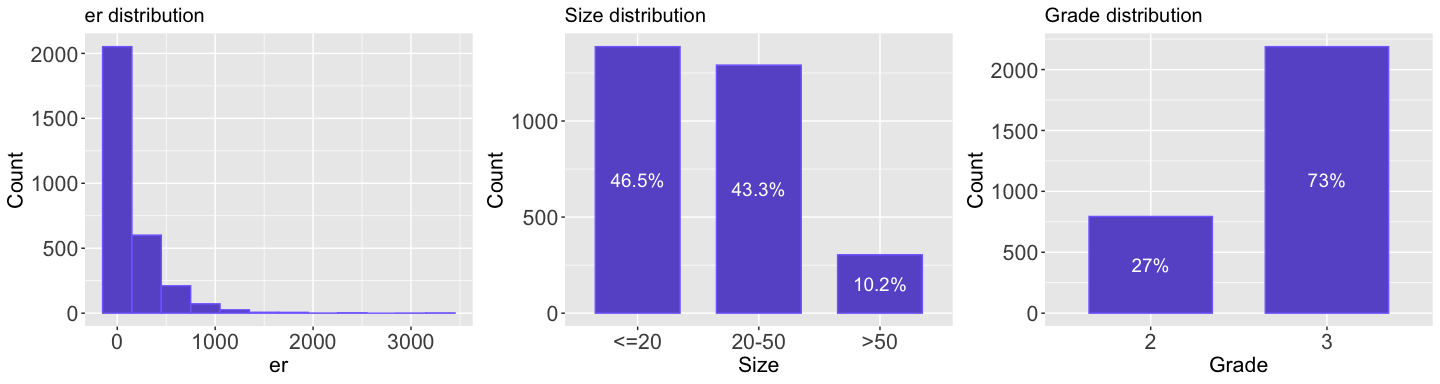
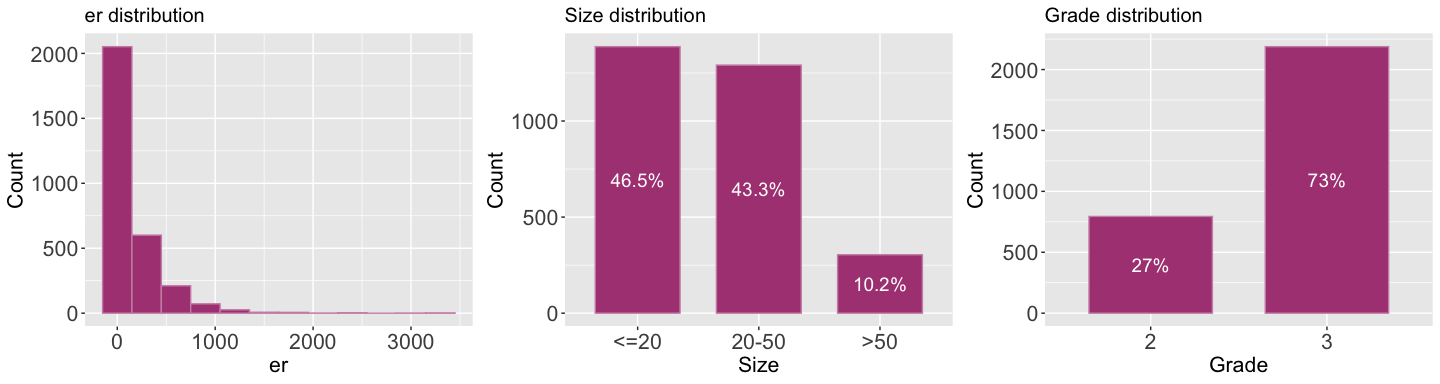
updated css

diff --git a/assets/css/style.scss b/assets/css/style.scss
@@ -10,3 +10,8 @@ body {
   color: #151515;
   background: #ffffff;
 }
+
+$section-headings-color: #c90076;
+
+$header-bg-color: #c67da8;
+$header-bg-color-secondary: #ae4683;
